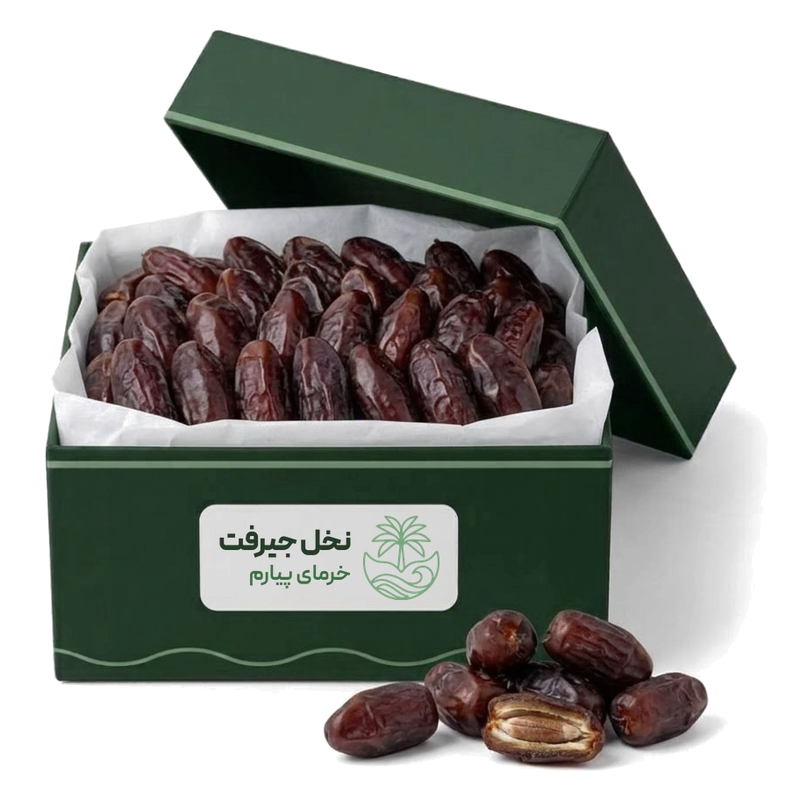
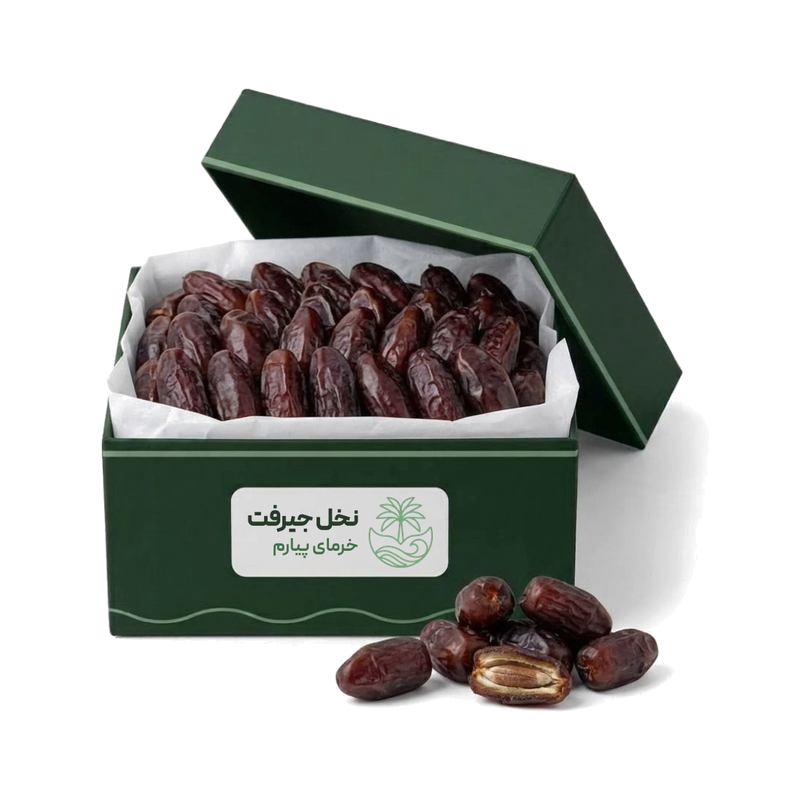
Equalize product photo scale; carton label fits its panel
Claude-Session: https://claude.ai/code/session_01C6711DbN9xjxTLnYgikHbm

diff --git a/index.html b/index.html
@@ -25,8 +25,8 @@
 <link rel="preload" href="fonts/YekanBakhFaNum-Regular.woff2" as="font" type="font/woff2" crossorigin>
 <link rel="preload" href="fonts/PeydaWeb-Black.woff2" as="font" type="font/woff2" crossorigin>
 
-<link rel="stylesheet" href="css/tailwind.css?v=20261027al">
-<link rel="stylesheet" href="css/style.css?v=20261027al">
+<link rel="stylesheet" href="css/tailwind.css?v=20261027am">
+<link rel="stylesheet" href="css/style.css?v=20261027am">
 
 
 </head>
@@ -239,7 +239,7 @@
         <!-- IMAGE SLOT · خرمای مضافتی -->
         <div class="relative grid aspect-square place-items-center overflow-hidden rounded-2xl">
           <div class="p-glow pointer-events-none absolute inset-0 rounded-2xl" aria-hidden="true"></div>
-          <div class="p-img relative grid h-full w-full place-items-center" role="img" aria-label="خرمای مضافتی"><img src="img/p/maz-box.webp?v=3" srcset="img/p/maz-box-400.webp?v=3 400w, img/p/maz-box.webp?v=3 800w" sizes="(min-width:1024px) 290px, 46vw" width="800" height="800" alt="خرمای مضافتی" class="ph max-h-full w-auto object-contain p-3" loading="lazy" decoding="async"></div>
+          <div class="p-img relative grid h-full w-full place-items-center" role="img" aria-label="خرمای مضافتی"><img src="img/p/maz-box.webp?v=4" srcset="img/p/maz-box-400.webp?v=4 400w, img/p/maz-box.webp?v=4 800w" sizes="(min-width:1024px) 290px, 46vw" width="800" height="800" alt="خرمای مضافتی" class="ph max-h-full w-auto object-contain p-3" loading="lazy" decoding="async"></div>
         </div>
         
       </div>
@@ -265,7 +265,7 @@
         <!-- IMAGE SLOT · خرمای پیارم -->
         <div class="relative grid aspect-square place-items-center overflow-hidden rounded-2xl">
           <div class="p-glow pointer-events-none absolute inset-0 rounded-2xl" aria-hidden="true"></div>
-          <div class="p-img relative grid h-full w-full place-items-center" role="img" aria-label="خرمای پیارم"><img src="img/p/pia-box.webp?v=3" srcset="img/p/pia-box-400.webp?v=3 400w, img/p/pia-box.webp?v=3 800w" sizes="(min-width:1024px) 290px, 46vw" width="800" height="800" alt="خرمای پیارم" class="ph max-h-full w-auto object-contain p-3" loading="lazy" decoding="async"></div>
+          <div class="p-img relative grid h-full w-full place-items-center" role="img" aria-label="خرمای پیارم"><img src="img/p/pia-box.webp?v=4" srcset="img/p/pia-box-400.webp?v=4 400w, img/p/pia-box.webp?v=4 800w" sizes="(min-width:1024px) 290px, 46vw" width="800" height="800" alt="خرمای پیارم" class="ph max-h-full w-auto object-contain p-3" loading="lazy" decoding="async"></div>
         </div>
         
       </div>
@@ -291,7 +291,7 @@
         <!-- IMAGE SLOT · خرمای کلوته -->
         <div class="relative grid aspect-square place-items-center overflow-hidden rounded-2xl">
           <div class="p-glow pointer-events-none absolute inset-0 rounded-2xl" aria-hidden="true"></div>
-          <div class="p-img relative grid h-full w-full place-items-center" role="img" aria-label="خرمای کلوته"><img src="img/p/kal-box.webp?v=3" srcset="img/p/kal-box-400.webp?v=3 400w, img/p/kal-box.webp?v=3 800w" sizes="(min-width:1024px) 290px, 46vw" width="800" height="800" alt="خرمای کلوته" class="ph max-h-full w-auto object-contain p-3" loading="lazy" decoding="async"></div>
+          <div class="p-img relative grid h-full w-full place-items-center" role="img" aria-label="خرمای کلوته"><img src="img/p/kal-box.webp?v=4" srcset="img/p/kal-box-400.webp?v=4 400w, img/p/kal-box.webp?v=4 800w" sizes="(min-width:1024px) 290px, 46vw" width="800" height="800" alt="خرمای کلوته" class="ph max-h-full w-auto object-contain p-3" loading="lazy" decoding="async"></div>
         </div>
         
       </div>
@@ -317,7 +317,7 @@
         <!-- IMAGE SLOT · پستهی اکبری -->
         <div class="relative grid aspect-square place-items-center overflow-hidden rounded-2xl">
           <div class="p-glow pointer-events-none absolute inset-0 rounded-2xl" aria-hidden="true"></div>
-          <div class="p-img relative grid h-full w-full place-items-center" role="img" aria-label="پستهی اکبری"><img src="img/p/pis.webp?v=3" srcset="img/p/pis-400.webp?v=3 400w, img/p/pis.webp?v=3 800w" sizes="(min-width:1024px) 290px, 46vw" width="800" height="800" alt="پستهی اکبری" class="ph max-h-full w-auto object-contain p-3" loading="lazy" decoding="async"></div>
+          <div class="p-img relative grid h-full w-full place-items-center" role="img" aria-label="پستهی اکبری"><img src="img/p/pis.webp?v=4" srcset="img/p/pis-400.webp?v=4 400w, img/p/pis.webp?v=4 800w" sizes="(min-width:1024px) 290px, 46vw" width="800" height="800" alt="پستهی اکبری" class="ph max-h-full w-auto object-contain p-3" loading="lazy" decoding="async"></div>
         </div>
         
       </div>
@@ -343,7 +343,7 @@
         <!-- IMAGE SLOT · انجیر خشک استهبان -->
         <div class="relative grid aspect-square place-items-center overflow-hidden rounded-2xl">
           <div class="p-glow pointer-events-none absolute inset-0 rounded-2xl" aria-hidden="true"></div>
-          <div class="p-img relative grid h-full w-full place-items-center" role="img" aria-label="انجیر خشک استهبان"><img src="img/p/fig.webp?v=3" srcset="img/p/fig-400.webp?v=3 400w, img/p/fig.webp?v=3 800w" sizes="(min-width:1024px) 290px, 46vw" width="800" height="800" alt="انجیر خشک استهبان" class="ph max-h-full w-auto object-contain p-3" loading="lazy" decoding="async"></div>
+          <div class="p-img relative grid h-full w-full place-items-center" role="img" aria-label="انجیر خشک استهبان"><img src="img/p/fig.webp?v=4" srcset="img/p/fig-400.webp?v=4 400w, img/p/fig.webp?v=4 800w" sizes="(min-width:1024px) 290px, 46vw" width="800" height="800" alt="انجیر خشک استهبان" class="ph max-h-full w-auto object-contain p-3" loading="lazy" decoding="async"></div>
         </div>
         
       </div>
@@ -369,7 +369,7 @@
         <!-- IMAGE SLOT · بادام درختی -->
         <div class="relative grid aspect-square place-items-center overflow-hidden rounded-2xl">
           <div class="p-glow pointer-events-none absolute inset-0 rounded-2xl" aria-hidden="true"></div>
-          <div class="p-img relative grid h-full w-full place-items-center" role="img" aria-label="بادام درختی"><img src="img/p/alm.webp?v=3" srcset="img/p/alm-400.webp?v=3 400w, img/p/alm.webp?v=3 800w" sizes="(min-width:1024px) 290px, 46vw" width="800" height="800" alt="بادام درختی" class="ph max-h-full w-auto object-contain p-3" loading="lazy" decoding="async"></div>
+          <div class="p-img relative grid h-full w-full place-items-center" role="img" aria-label="بادام درختی"><img src="img/p/alm.webp?v=4" srcset="img/p/alm-400.webp?v=4 400w, img/p/alm.webp?v=4 800w" sizes="(min-width:1024px) 290px, 46vw" width="800" height="800" alt="بادام درختی" class="ph max-h-full w-auto object-contain p-3" loading="lazy" decoding="async"></div>
         </div>
         
       </div>
@@ -395,7 +395,7 @@
         <!-- IMAGE SLOT · مغز گردو -->
         <div class="relative grid aspect-square place-items-center overflow-hidden rounded-2xl">
           <div class="p-glow pointer-events-none absolute inset-0 rounded-2xl" aria-hidden="true"></div>
-          <div class="p-img relative grid h-full w-full place-items-center" role="img" aria-label="مغز گردو"><img src="img/p/wal.webp?v=3" srcset="img/p/wal-400.webp?v=3 400w, img/p/wal.webp?v=3 800w" sizes="(min-width:1024px) 290px, 46vw" width="800" height="800" alt="مغز گردو" class="ph max-h-full w-auto object-contain p-3" loading="lazy" decoding="async"></div>
+          <div class="p-img relative grid h-full w-full place-items-center" role="img" aria-label="مغز گردو"><img src="img/p/wal.webp?v=4" srcset="img/p/wal-400.webp?v=4 400w, img/p/wal.webp?v=4 800w" sizes="(min-width:1024px) 290px, 46vw" width="800" height="800" alt="مغز گردو" class="ph max-h-full w-auto object-contain p-3" loading="lazy" decoding="async"></div>
         </div>
         
       </div>
@@ -421,7 +421,7 @@
         <!-- IMAGE SLOT · برگهی زردآلو -->
         <div class="relative grid aspect-square place-items-center overflow-hidden rounded-2xl">
           <div class="p-glow pointer-events-none absolute inset-0 rounded-2xl" aria-hidden="true"></div>
-          <div class="p-img relative grid h-full w-full place-items-center" role="img" aria-label="برگهی زردآلو"><img src="img/p/apr.webp?v=3" srcset="img/p/apr-400.webp?v=3 400w, img/p/apr.webp?v=3 800w" sizes="(min-width:1024px) 290px, 46vw" width="800" height="800" alt="برگهی زردآلو" class="ph max-h-full w-auto object-contain p-3" loading="lazy" decoding="async"></div>
+          <div class="p-img relative grid h-full w-full place-items-center" role="img" aria-label="برگهی زردآلو"><img src="img/p/apr.webp?v=4" srcset="img/p/apr-400.webp?v=4 400w, img/p/apr.webp?v=4 800w" sizes="(min-width:1024px) 290px, 46vw" width="800" height="800" alt="برگهی زردآلو" class="ph max-h-full w-auto object-contain p-3" loading="lazy" decoding="async"></div>
         </div>
         
       </div>
@@ -1192,6 +1192,6 @@
 <!-- Toast (top, so it never collides with the cart capsule) -->
 <div id="toast" role="status" aria-live="polite" class="pointer-events-none fixed left-1/2 top-24 z-[90] w-max max-w-[calc(100vw-2rem)] -translate-x-1/2 -translate-y-2 rounded-full bg-cyprus-deep px-5 py-3 text-center text-sm text-white opacity-0 shadow-lg transition duration-200"></div>
 
-<script src="js/app.js?v=20261027al"></script>
+<script src="js/app.js?v=20261027am"></script>
 </body>
 </html>

diff --git a/js/app.js b/js/app.js
@@ -24,7 +24,7 @@
     { id:'apr',   cat:'dried', img:'img/p/apr.webp',    name:'برگهی زردآلو',           unit:'بستهبندی ۵۰۰ گرمی',   price:380000,  badge:'۱۰۰٪ ارگانیک', tag:'زردآلو', featured:true },
     { id:'rai',   cat:'dried', img:'img/p/rai.webp',    name:'کشمش سبز',                unit:'بستهبندی ۵۰۰ گرمی',   price:210000,  badge:'صادراتی',     tag:'کشمش' }
   ];
-  const IMG_V = '3';                // bump when product photos change, so phones don't keep old cached copies
+  const IMG_V = '4';                // bump when product photos change, so phones don't keep old cached copies
   products.forEach(p => { if (p.img) p.img += '?v=' + IMG_V; });
   const byId = Object.fromEntries(products.map(p => [p.id, p]));
   /* weight in kg (for the customer's "purchased weight") + sample stock; the admin panel overrides price/stock */
